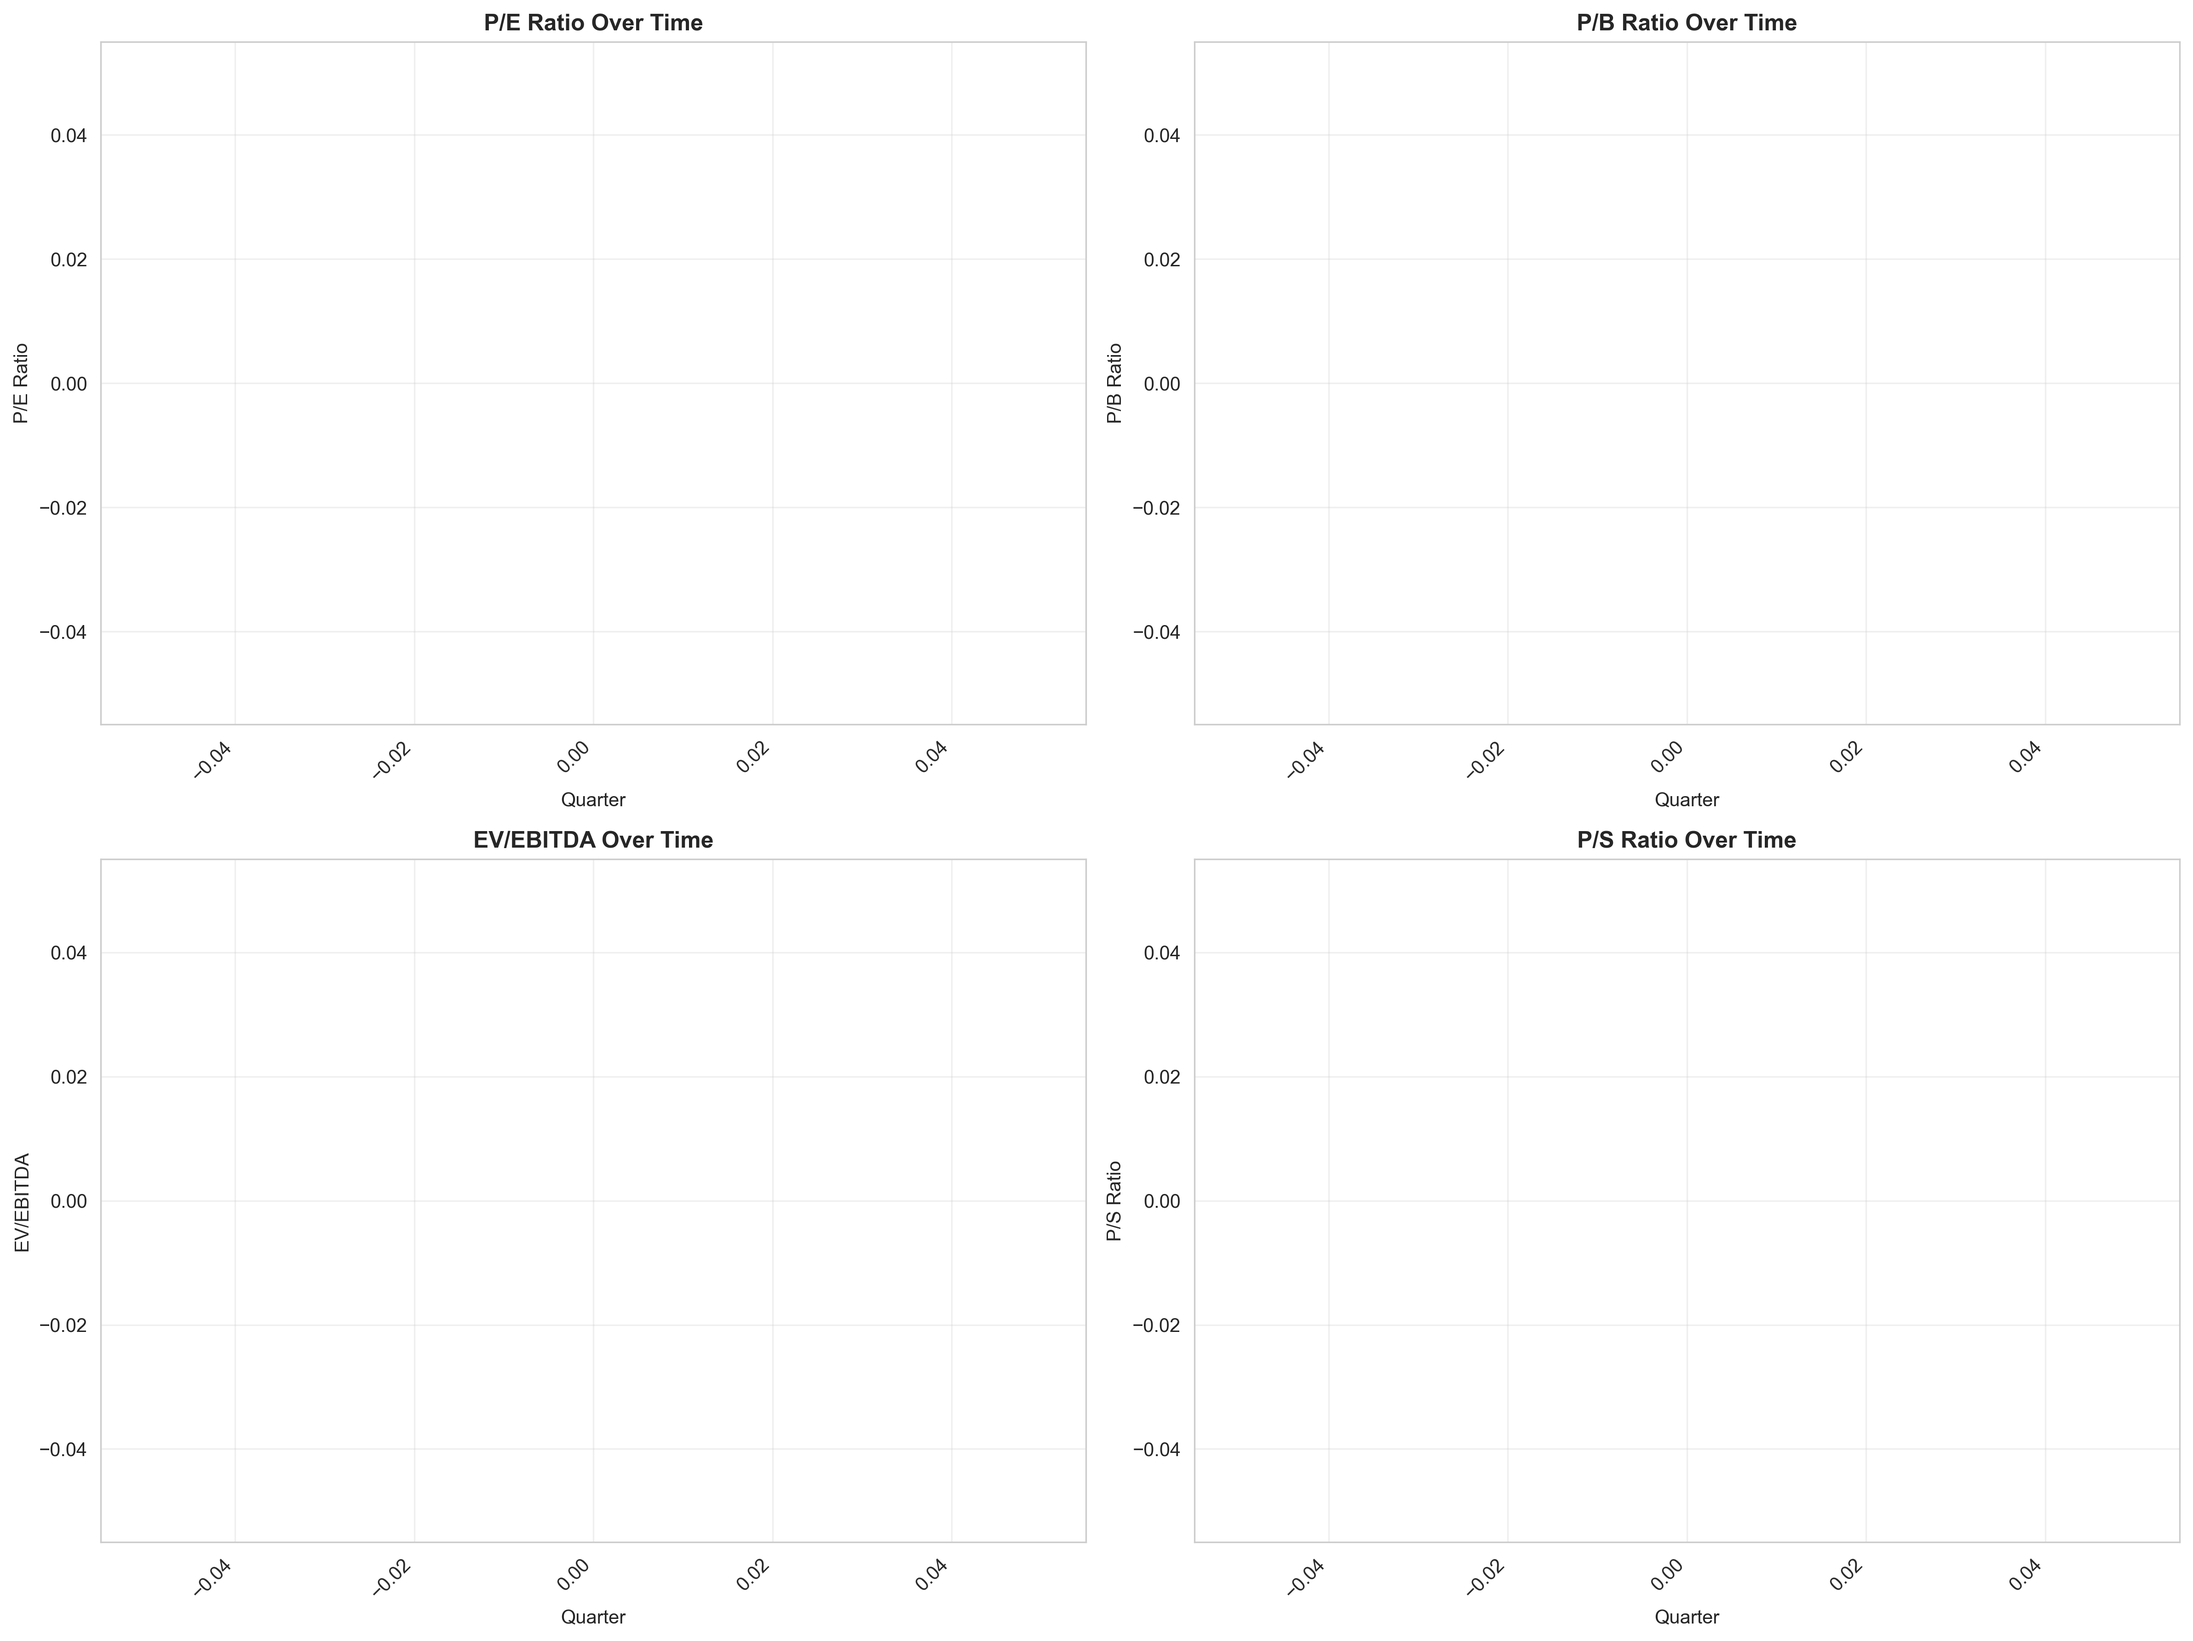
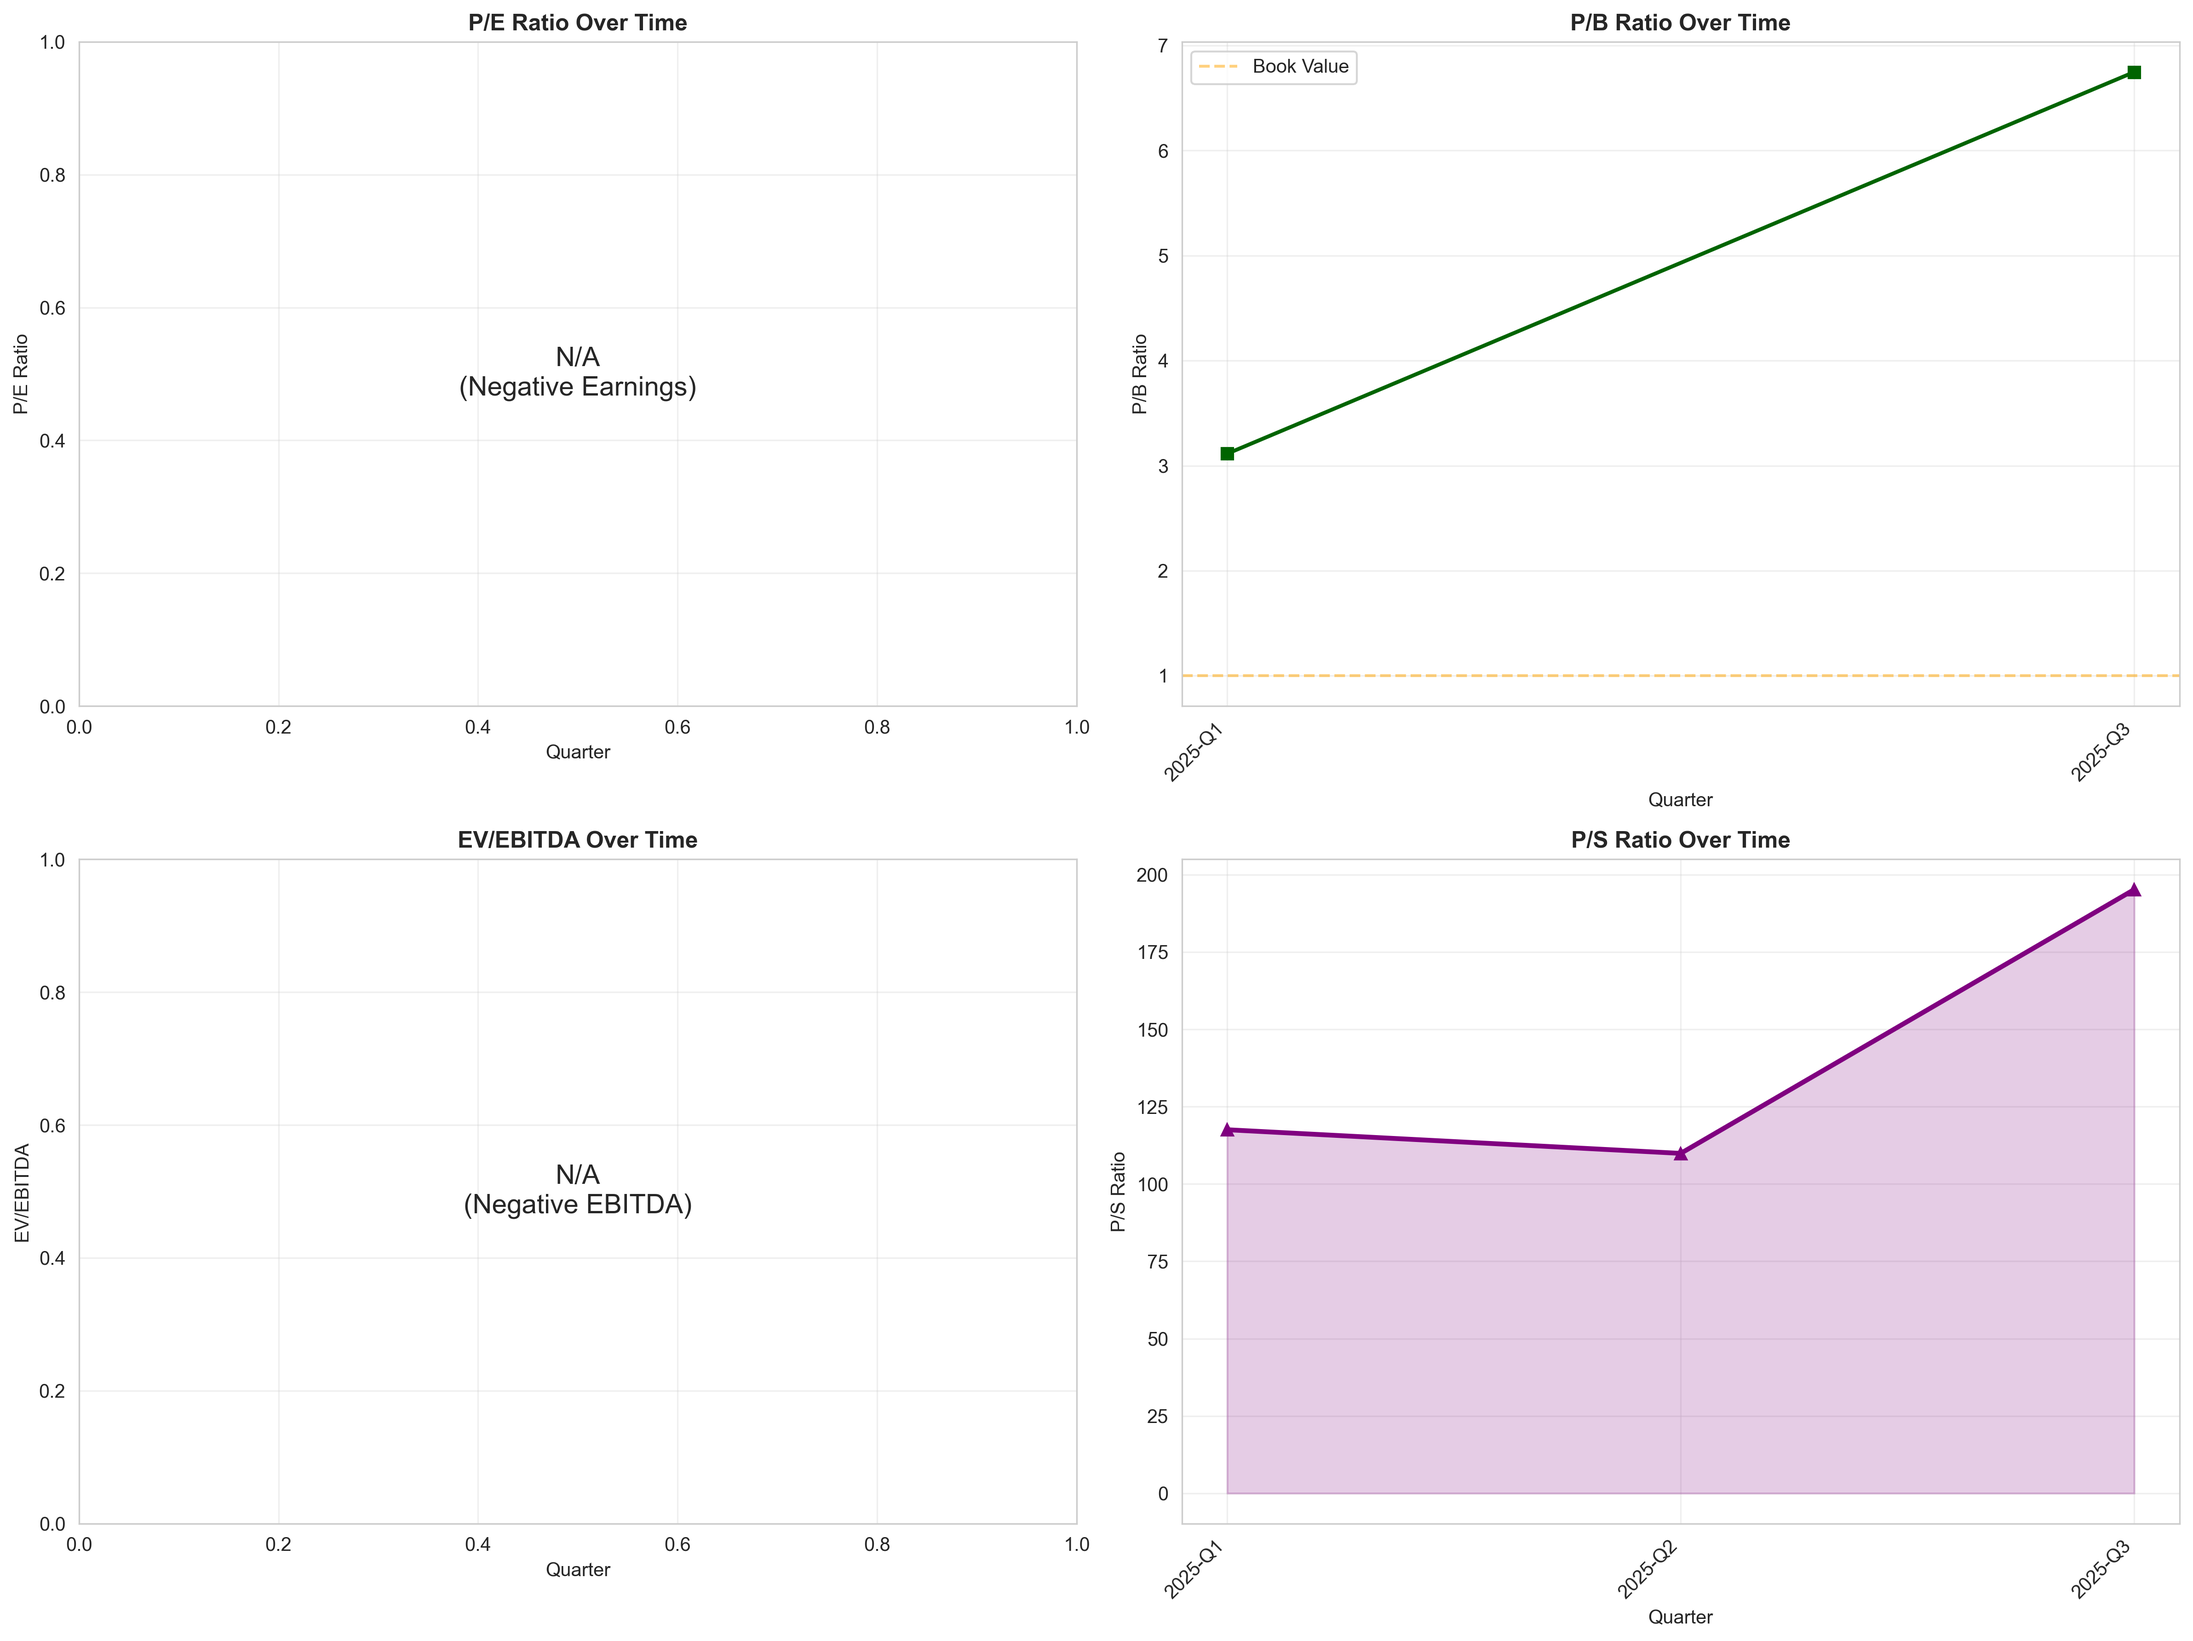
valuation ratios & metrics correction
-

diff --git a/src/analysis/valuation.py b/src/analysis/valuation.py
@@ -115,7 +115,11 @@ def calculate_market_metrics(
         df_fin['year_quarter'] = df_fin['year'].astype(str) + '-Q' + df_fin['quarter'].astype(str)
     
     # Create quarterly aggregations of market data
-    df_mkt['year_quarter'] = df_mkt['date'].dt.to_period('Q').astype(str)
+    # Format as YYYY-QN to match financial data format
+    df_mkt['year'] = df_mkt['date'].dt.year
+    df_mkt['quarter'] = df_mkt['date'].dt.quarter
+    df_mkt['year_quarter'] = df_mkt['year'].astype(str) + '-Q' + df_mkt['quarter'].astype(str)
+    
     market_quarterly = df_mkt.groupby('year_quarter').agg({
         'close': 'last',  # Last closing price of quarter
         'volume': 'sum',
@@ -257,6 +261,11 @@ def plot_valuation_ratios(df_valuation: pd.DataFrame, output_dir: str):
     """Create visualization of valuation ratios over time."""
     import matplotlib.pyplot as plt
     import seaborn as sns
+    import pandas as pd
+    
+    if len(df_valuation) == 0:
+        print("⚠ No valuation data to plot")
+        return
     
     sns.set_style("whitegrid")
     
@@ -264,18 +273,30 @@ def plot_valuation_ratios(df_valuation: pd.DataFrame, output_dir: str):
     
     # P/E Ratio
     if 'pe_ratio' in df_valuation.columns and 'year_quarter' in df_valuation.columns:
-        axes[0, 0].plot(df_valuation['year_quarter'], df_valuation['pe_ratio'], 
-                       marker='o', linewidth=2, color='darkblue')
-        axes[0, 0].set_title('P/E Ratio Over Time', fontweight='bold')
+        df_pe = df_valuation[df_valuation['pe_ratio'].notna()]
+        if len(df_pe) > 0:
+            axes[0, 0].plot(df_pe['year_quarter'], df_pe['pe_ratio'], 
+                           marker='o', linewidth=2, color='darkblue')
+            axes[0, 0].set_title('P/E Ratio Over Time', fontweight='bold')
+        else:
+            axes[0, 0].text(0.5, 0.5, 'N/A\n(Negative Earnings)', 
+                          ha='center', va='center', fontsize=14, transform=axes[0, 0].transAxes)
+            axes[0, 0].set_title('P/E Ratio Over Time', fontweight='bold')
         axes[0, 0].set_xlabel('Quarter')
         axes[0, 0].set_ylabel('P/E Ratio')
         axes[0, 0].grid(True, alpha=0.3)
-        plt.setp(axes[0, 0].xaxis.get_majorticklabels(), rotation=45, ha='right')
     
     # P/B Ratio
     if 'pb_ratio' in df_valuation.columns:
-        axes[0, 1].plot(df_valuation['year_quarter'], df_valuation['pb_ratio'],
-                       marker='s', linewidth=2, color='darkgreen')
+        df_pb = df_valuation[df_valuation['pb_ratio'].notna()]
+        if len(df_pb) > 0:
+            axes[0, 1].plot(df_pb['year_quarter'], df_pb['pb_ratio'],
+                           marker='s', linewidth=2, color='darkgreen')
+            axes[0, 1].axhline(y=1.0, color='orange', linestyle='--', alpha=0.5, label='Book Value')
+            axes[0, 1].legend()
+        else:
+            axes[0, 1].text(0.5, 0.5, 'No Data', ha='center', va='center', 
+                          fontsize=14, transform=axes[0, 1].transAxes)
         axes[0, 1].set_title('P/B Ratio Over Time', fontweight='bold')
         axes[0, 1].set_xlabel('Quarter')
         axes[0, 1].set_ylabel('P/B Ratio')
@@ -284,18 +305,28 @@ def plot_valuation_ratios(df_valuation: pd.DataFrame, output_dir: str):
     
     # EV/EBITDA
     if 'ev_ebitda' in df_valuation.columns:
-        axes[1, 0].plot(df_valuation['year_quarter'], df_valuation['ev_ebitda'],
-                       marker='D', linewidth=2, color='darkred')
+        df_ev = df_valuation[df_valuation['ev_ebitda'].notna()]
+        if len(df_ev) > 0:
+            axes[1, 0].plot(df_ev['year_quarter'], df_ev['ev_ebitda'],
+                           marker='D', linewidth=2, color='darkred')
+        else:
+            axes[1, 0].text(0.5, 0.5, 'N/A\n(Negative EBITDA)', 
+                          ha='center', va='center', fontsize=14, transform=axes[1, 0].transAxes)
         axes[1, 0].set_title('EV/EBITDA Over Time', fontweight='bold')
         axes[1, 0].set_xlabel('Quarter')
         axes[1, 0].set_ylabel('EV/EBITDA')
         axes[1, 0].grid(True, alpha=0.3)
-        plt.setp(axes[1, 0].xaxis.get_majorticklabels(), rotation=45, ha='right')
     
     # P/S Ratio
     if 'ps_ratio' in df_valuation.columns:
-        axes[1, 1].plot(df_valuation['year_quarter'], df_valuation['ps_ratio'],
-                       marker='^', linewidth=2, color='purple')
+        df_ps = df_valuation[df_valuation['ps_ratio'].notna()]
+        if len(df_ps) > 0:
+            axes[1, 1].plot(df_ps['year_quarter'], df_ps['ps_ratio'],
+                           marker='^', linewidth=2.5, color='purple')
+            axes[1, 1].fill_between(df_ps['year_quarter'], df_ps['ps_ratio'], alpha=0.2, color='purple')
+        else:
+            axes[1, 1].text(0.5, 0.5, 'No Data', ha='center', va='center', 
+                          fontsize=14, transform=axes[1, 1].transAxes)
         axes[1, 1].set_title('P/S Ratio Over Time', fontweight='bold')
         axes[1, 1].set_xlabel('Quarter')
         axes[1, 1].set_ylabel('P/S Ratio')

diff --git a/src/scripts/run_extraction.py b/src/scripts/run_extraction.py
@@ -1,3 +1,4 @@
+
 """
 Master script to run all SEC filing data extraction.
 
